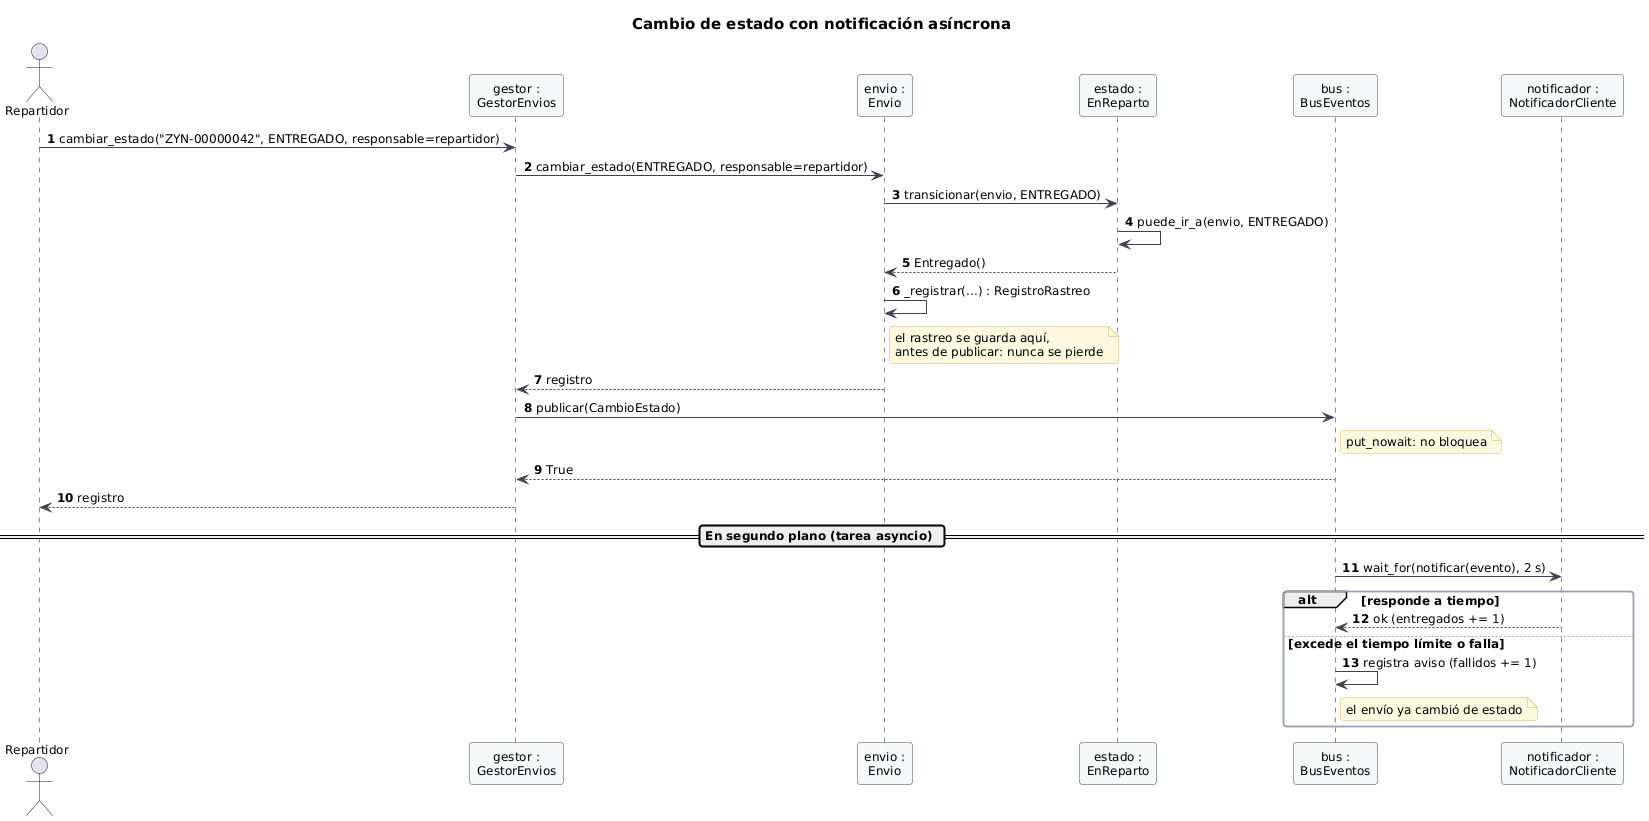
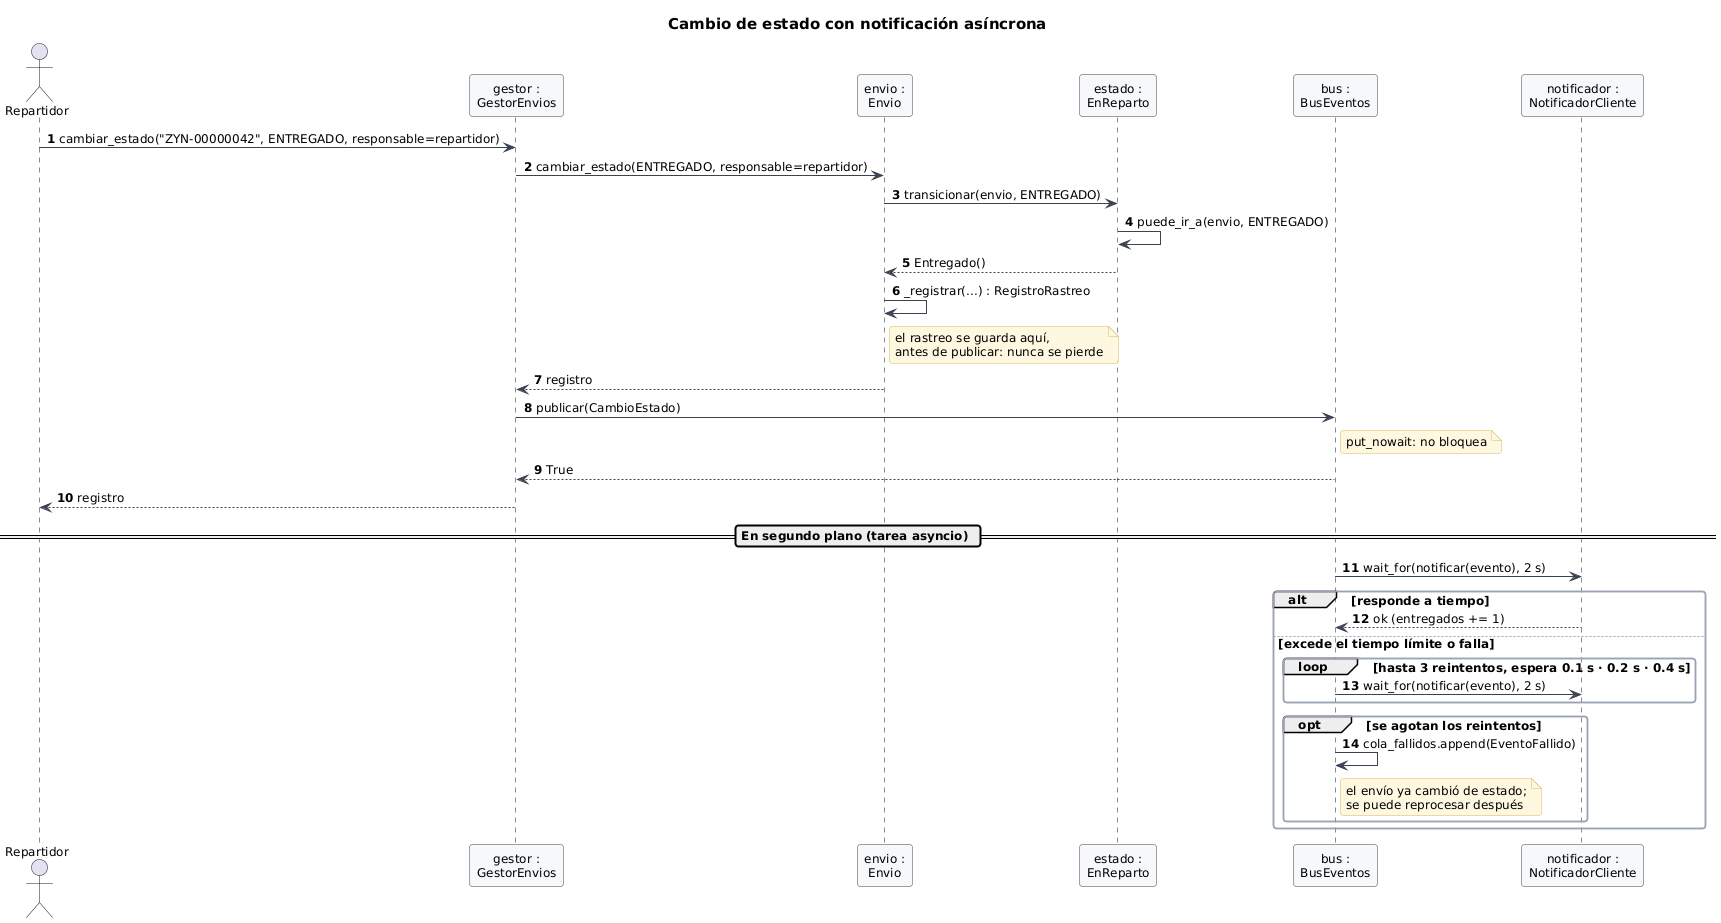
Reintenta las notificaciones fallidas y guarda las que se agotan
Cada aviso se reintenta hasta 3 veces con espera exponencial (0.1, 0.2 y
0.4 s). Si se agotan los intentos, pasa a la cola de fallidos con su motivo
y se puede reprocesar cuando el servicio se recupere.

Refs #2

Claude-Session: https://claude.ai/code/session_01B2i77P2T8B2uPDor18rEkp

diff --git a/zyntra/eventos.py b/zyntra/eventos.py
@@ -3,7 +3,9 @@
 Cada cambio de estado se publica como un evento. Los suscriptores
 (notificaciones, panel de rastreo) se enteran sin que el envío los conozca
 (DT-7). Es tiempo real blando: publicar nunca bloquea, cada suscriptor tiene
-un tiempo límite y un fallo no afecta a los demás.
+un tiempo límite y un fallo no afecta a los demás. Un aviso que falla se
+reintenta con espera exponencial; si se agotan los intentos, queda en la
+cola de fallidos para reprocesarlo después.
 """
 
 from __future__ import annotations
@@ -21,6 +23,8 @@ log = logging.getLogger(__name__)
 
 CAPACIDAD_COLA = 1000      # eventos en espera antes de empezar a descartar
 TIEMPO_LIMITE_S = 2.0      # segundos que se espera a cada suscriptor
+MAX_REINTENTOS = 3         # intentos extra antes de mandar el aviso a la cola de fallidos
+ESPERA_BASE_S = 0.1        # espera antes del primer reintento; se duplica en cada uno
 
 
 @dataclass(frozen=True)
@@ -30,6 +34,17 @@ class CambioEstado:
     nuevo: NombreEstado
     descripcion: str
     destinatario: str          # correo del cliente
+    marca_tiempo: datetime
+
+
+@dataclass(frozen=True)
+class EventoFallido:
+    """Aviso que agotó sus reintentos (cola de fallidos o *dead-letter*)."""
+
+    evento: CambioEstado
+    suscriptor: str
+    intentos: int
+    motivo: str
     marca_tiempo: datetime
 
 
@@ -45,12 +60,18 @@ class BusEventos:
     """Sujeto del patrón Observer. Se crea fuera y se inyecta (no es global)."""
 
     def __init__(self, capacidad: int = CAPACIDAD_COLA,
-                 tiempo_limite: float = TIEMPO_LIMITE_S) -> None:
+                 tiempo_limite: float = TIEMPO_LIMITE_S,
+                 max_reintentos: int = MAX_REINTENTOS,
+                 espera_base: float = ESPERA_BASE_S) -> None:
         self._suscriptores: list[Suscriptor] = []
         self._cola: asyncio.Queue[CambioEstado] = asyncio.Queue(maxsize=capacidad)
         self._tiempo_limite = tiempo_limite
+        self._max_reintentos = max_reintentos
+        self._espera_base = espera_base
         self._tarea: Optional[asyncio.Task] = None
+        self.cola_fallidos: list[EventoFallido] = []
         self.entregados = 0
+        self.reintentos = 0
         self.fallidos = 0
         self.descartados = 0
 
@@ -85,8 +106,26 @@ class BusEventos:
 
     @property
     def estadisticas(self) -> dict[str, int]:
-        return {"entregados": self.entregados, "fallidos": self.fallidos,
-                "descartados": self.descartados, "pendientes": self._cola.qsize()}
+        return {"entregados": self.entregados, "reintentos": self.reintentos,
+                "fallidos": self.fallidos, "descartados": self.descartados,
+                "pendientes": self._cola.qsize(), "en_cola_fallidos": len(self.cola_fallidos)}
+
+    async def reprocesar_fallidos(self) -> int:
+        """Vuelve a intentar los avisos de la cola de fallidos.
+
+        Devuelve cuántos se entregaron; los que vuelven a fallar regresan a la cola.
+        """
+        pendientes, self.cola_fallidos = self.cola_fallidos, []
+        por_nombre = {s.nombre: s for s in self._suscriptores}
+        entregados = 0
+        for fallido in pendientes:
+            suscriptor = por_nombre.get(fallido.suscriptor)
+            if suscriptor is None:
+                self.cola_fallidos.append(fallido)
+                continue
+            if await self._entregar(suscriptor, fallido.evento):
+                entregados += 1
+        return entregados
 
     async def _trabajar(self) -> None:
         while True:
@@ -97,14 +136,25 @@ class BusEventos:
             finally:
                 self._cola.task_done()
 
-    async def _entregar(self, suscriptor: Suscriptor, evento: CambioEstado) -> None:
-        try:
-            await asyncio.wait_for(suscriptor.notificar(evento), self._tiempo_limite)
-            self.entregados += 1
-        except asyncio.TimeoutError:
-            self.fallidos += 1
-            log.warning("%s tardó más de %ss con %s", suscriptor.nombre,
-                        self._tiempo_limite, evento.numero_guia)
-        except Exception:  # un suscriptor que falla no detiene al bus
-            self.fallidos += 1
-            log.exception("%s falló con %s", suscriptor.nombre, evento.numero_guia)
+    async def _entregar(self, suscriptor: Suscriptor, evento: CambioEstado) -> bool:
+        """Entrega con reintentos y espera exponencial. Devuelve si se entregó."""
+        motivo = ""
+        for intento in range(self._max_reintentos + 1):
+            if intento:
+                self.reintentos += 1
+                await asyncio.sleep(self._espera_base * 2 ** (intento - 1))
+            try:
+                await asyncio.wait_for(suscriptor.notificar(evento), self._tiempo_limite)
+                self.entregados += 1
+                return True
+            except asyncio.TimeoutError:
+                motivo = f"tardó más de {self._tiempo_limite}s"
+            except Exception as error:  # un suscriptor que falla no detiene al bus
+                motivo = f"{type(error).__name__}: {error}"
+            log.warning("%s: intento %d con %s fallido (%s)", suscriptor.nombre,
+                        intento + 1, evento.numero_guia, motivo)
+        self.fallidos += 1
+        self.cola_fallidos.append(EventoFallido(
+            evento=evento, suscriptor=suscriptor.nombre, intentos=self._max_reintentos + 1,
+            motivo=motivo, marca_tiempo=datetime.now()))
+        return False

diff --git a/tests/test_respuesta.py b/tests/test_respuesta.py
@@ -1,0 +1,109 @@
+"""Pruebas del módulo de respuesta (Segundo Parcial)."""
+
+import asyncio
+import time
+import unittest
+
+from tests.apoyo import creadores, datos_envio
+from zyntra.estados import NombreEstado as E
+from zyntra.eventos import BusEventos, Suscriptor
+from zyntra.gestor import GestorEnvios
+from zyntra.notificadores import PanelRastreo
+from zyntra.tarifas import TipoEnvio
+
+
+class FallaNVeces(Suscriptor):
+    nombre = "falla n veces"
+
+    def __init__(self, fallos):
+        self.fallos_restantes = fallos
+        self.recibidos = []
+
+    async def notificar(self, evento):
+        if self.fallos_restantes:
+            self.fallos_restantes -= 1
+            raise ConnectionError("servicio no disponible")
+        self.recibidos.append(evento)
+
+
+def gestor_con(bus, guias=("ZYN-00000001",)):
+    gestor = GestorEnvios(creadores(), bus)
+    for guia in guias:
+        gestor.registrar_envio(TipoEnvio.NACIONAL, **datos_envio(guia=guia))
+    return gestor
+
+
+class TestReintentos(unittest.IsolatedAsyncioTestCase):
+    """Issue #2: reintentos con espera exponencial y cola de fallidos."""
+
+    async def test_se_entrega_despues_de_dos_fallos(self):
+        bus = BusEventos(max_reintentos=3, espera_base=0.01)
+        suscriptor = FallaNVeces(2)
+        bus.suscribir(suscriptor)
+        await bus.iniciar()
+        with self.assertLogs("zyntra.eventos", "WARNING") as avisos:
+            gestor_con(bus).cambiar_estado("ZYN-00000001", E.EN_TRANSITO)
+            await bus.detener()
+
+        self.assertEqual(len(suscriptor.recibidos), 1)
+        self.assertEqual(bus.reintentos, 2)
+        self.assertEqual(bus.fallidos, 0)
+        self.assertEqual(len(avisos.output), 2)
+
+    async def test_si_siempre_falla_queda_en_la_cola_de_fallidos(self):
+        bus = BusEventos(max_reintentos=2, espera_base=0.01)
+        bus.suscribir(FallaNVeces(99))
+        await bus.iniciar()
+        with self.assertLogs("zyntra.eventos", "WARNING"):
+            gestor_con(bus).cambiar_estado("ZYN-00000001", E.EN_TRANSITO)
+            await bus.detener()
+
+        self.assertEqual(len(bus.cola_fallidos), 1)
+        fallido = bus.cola_fallidos[0]
+        self.assertEqual(fallido.intentos, 3)
+        self.assertEqual(fallido.suscriptor, "falla n veces")
+        self.assertIn("ConnectionError", fallido.motivo)
+        self.assertIs(fallido.evento.nuevo, E.EN_TRANSITO)
+
+    async def test_la_espera_crece_de_forma_exponencial(self):
+        bus = BusEventos(max_reintentos=3, espera_base=0.05)
+        bus.suscribir(FallaNVeces(3))
+        await bus.iniciar()
+        inicio = time.perf_counter()
+        with self.assertLogs("zyntra.eventos", "WARNING"):
+            gestor_con(bus).cambiar_estado("ZYN-00000001", E.EN_TRANSITO)
+            await bus.detener()
+        # 0.05 + 0.10 + 0.20 = 0.35 s de espera antes del cuarto intento
+        self.assertGreaterEqual(time.perf_counter() - inicio, 0.35)
+
+    async def test_los_reintentos_no_retrasan_a_los_demas(self):
+        bus = BusEventos(max_reintentos=3, espera_base=0.2)
+        panel = PanelRastreo()
+        bus.suscribir(FallaNVeces(3))
+        bus.suscribir(panel)
+        await bus.iniciar()
+        with self.assertLogs("zyntra.eventos", "WARNING"):
+            gestor_con(bus).cambiar_estado("ZYN-00000001", E.EN_TRANSITO)
+            await asyncio.sleep(0.05)
+            # El panel ya recibió el aviso aunque el otro suscriptor sigue reintentando.
+            self.assertIn("ZYN-00000001", panel.ultimo_estado)
+            await bus.detener()
+
+    async def test_reprocesar_la_cola_de_fallidos(self):
+        bus = BusEventos(max_reintentos=0, espera_base=0.01)
+        suscriptor = FallaNVeces(1)
+        bus.suscribir(suscriptor)
+        await bus.iniciar()
+        with self.assertLogs("zyntra.eventos", "WARNING"):
+            gestor_con(bus).cambiar_estado("ZYN-00000001", E.EN_TRANSITO)
+            await bus.detener()
+        self.assertEqual(len(bus.cola_fallidos), 1)
+
+        # El servicio se recuperó: el reproceso entrega el aviso pendiente.
+        self.assertEqual(await bus.reprocesar_fallidos(), 1)
+        self.assertEqual(bus.cola_fallidos, [])
+        self.assertEqual(len(suscriptor.recibidos), 1)
+
+
+if __name__ == "__main__":
+    unittest.main()

diff --git a/zyntra/demo.py b/zyntra/demo.py
@@ -38,7 +38,7 @@ async def main() -> None:
     repartidor = Empleado(id_usuario=2, nombre="Luis Martínez", email="luis@zyntra.hn",
                           sucursal=sucursal, rol=Rol.REPARTIDOR)
 
-    bus = BusEventos(tiempo_limite=0.5)
+    bus = BusEventos(tiempo_limite=0.3, max_reintentos=1, espera_base=0.05)
     correo, panel = NotificadorCliente(demora_s=0.1), PanelRastreo()
     for suscriptor in (correo, panel, NotificadorCaido()):
         bus.suscribir(suscriptor)

diff --git a/CHANGELOG.md b/CHANGELOG.md
@@ -6,6 +6,7 @@ Formato basado en [Keep a Changelog](https://keepachangelog.com/es-ES/1.1.0/). V
 
 ### Agregado
 - Estrategia de ramas y flujo de revisión en `CONTRIBUTING.md`, plantilla de pull request y pruebas automáticas con GitHub Actions (#1).
+- Reintentos de notificaciones con espera exponencial y cola de fallidos que se puede reprocesar (#2).
 
 ## [1.0.0] - 2026-11-04
 
